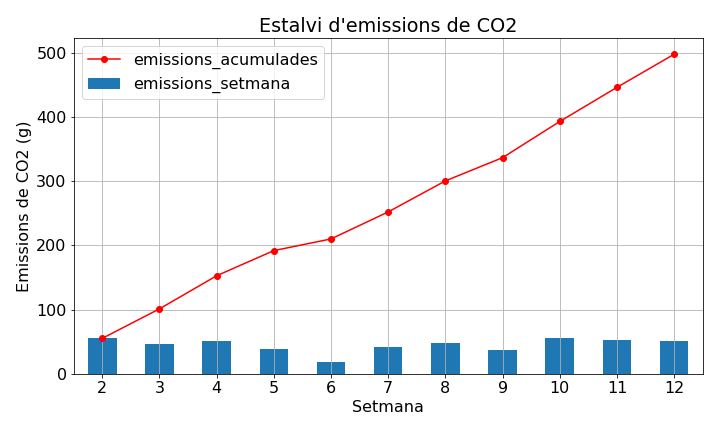
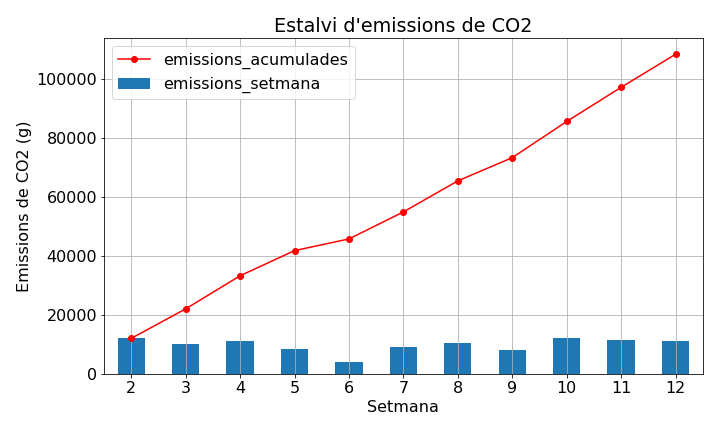
correccio bug: no es multiplicaven els kms recorreguts per les emissions

diff --git a/calcul_emissions.py b/calcul_emissions.py
@@ -89,7 +89,7 @@ def main():
     # distancia total recorreguda
     df['emissions_setmana'] = (
         df['viatges_mianigues']*d_mianigues+df['viatges_petanca']*d_petanca
-        + df['viatges_StAndreu']*d_andreu)
+        + df['viatges_StAndreu']*d_andreu)*emissions_cotxe
     df['emissions_acumulades'] = df['emissions_setmana'].cumsum()
     
     print(df)
